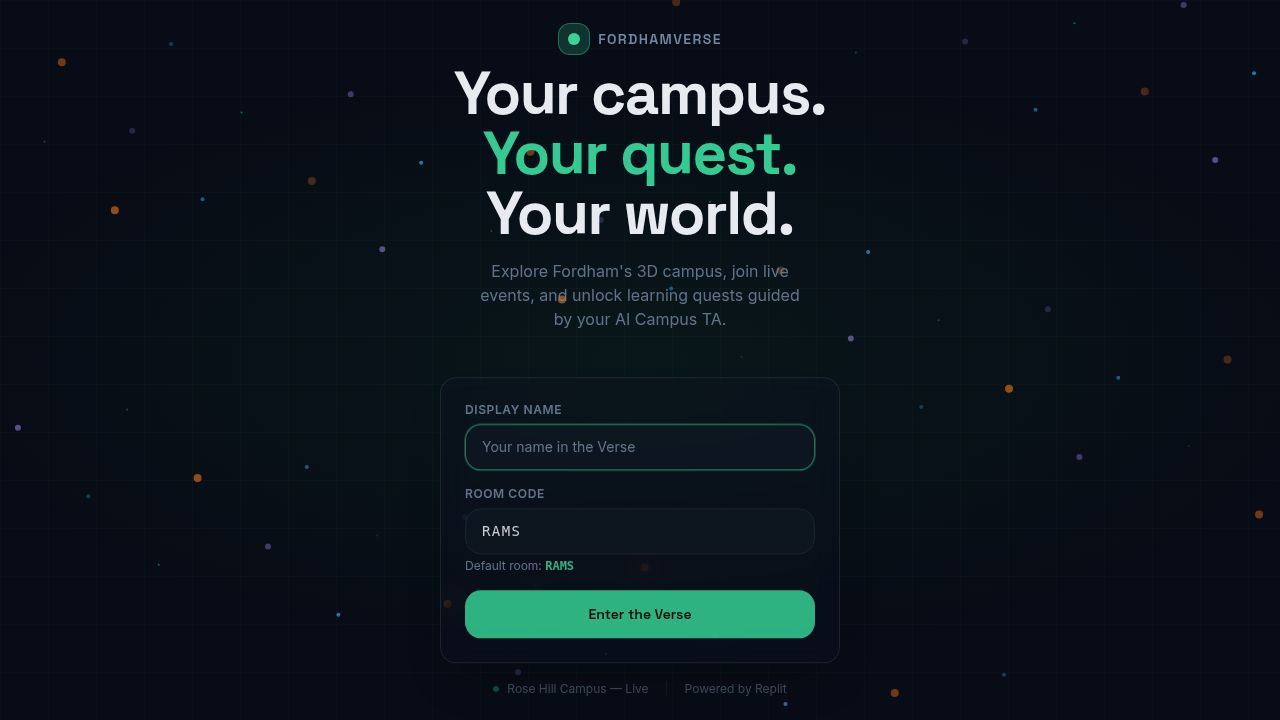
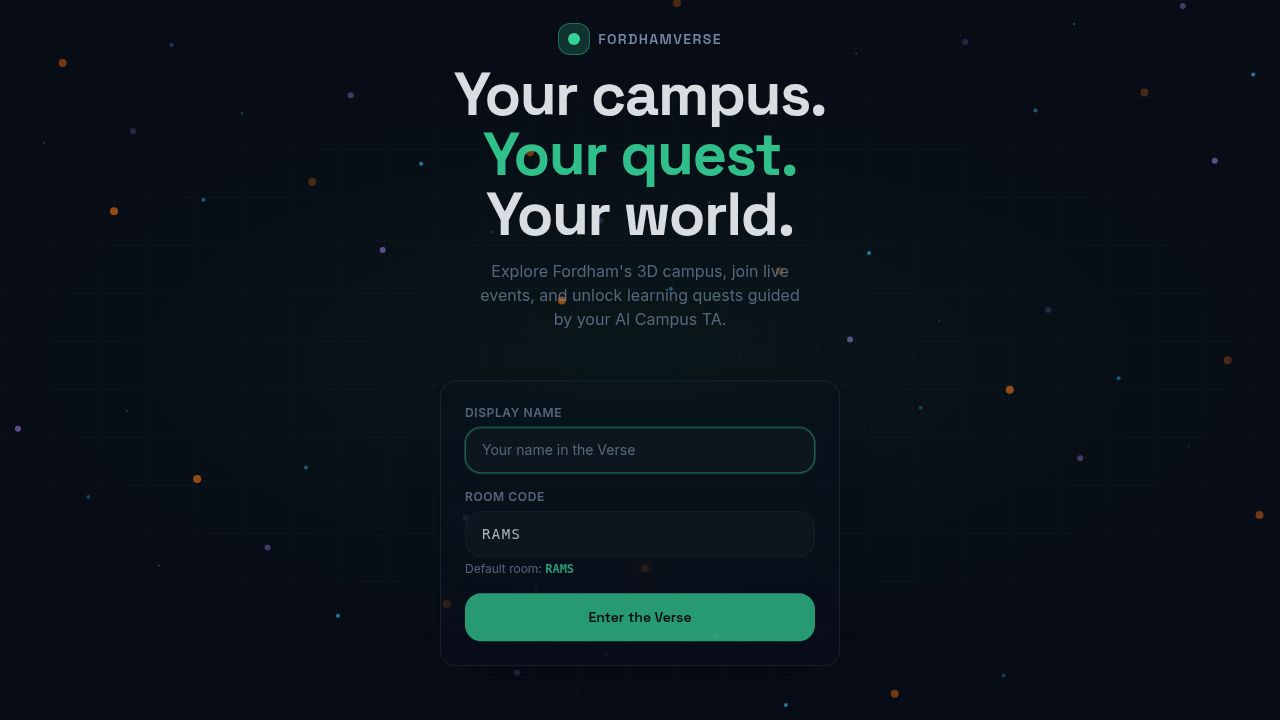
Add on-screen mobile controls and improve visual atmosphere
Integrate new mobile touch controls for gameplay and enhance the game's visual atmosphere with a sky dome and updated ground textures.

Replit-Commit-Author: Agent
Replit-Commit-Session-Id: d88b9b34-4b7b-41c7-a7cd-4240a464e5ad
Replit-Commit-Checkpoint-Type: full_checkpoint
Replit-Commit-Event-Id: c1e180e8-27f4-4b70-849d-4775d80f2aad
Replit-Commit-Screenshot-Url: https://storage.googleapis.com/screenshot-production-us-central1/dd788a88-bd38-4a46-bf5b-e3bbac66b9e9/d88b9b34-4b7b-41c7-a7cd-4240a464e5ad/cmcaWsD
Replit-Helium-Checkpoint-Created: true

diff --git a/artifacts/fordhamverse/src/components/MobileControls.tsx b/artifacts/fordhamverse/src/components/MobileControls.tsx
@@ -1,0 +1,123 @@
+import { useEffect, useState } from "react";
+import {
+  ArrowUp,
+  ArrowDown,
+  ArrowLeft,
+  ArrowRight,
+  ChevronsUp,
+  Zap,
+} from "lucide-react";
+import {
+  resetTouchControls,
+  setTouchControl,
+  type TouchControlKey,
+} from "@/lib/touchControls";
+
+/**
+ * On-screen movement controls for touch devices (e.g. a phone opened from the
+ * room QR code). Mirrors the keyboard controls by mutating the shared
+ * `touchControls` singleton on press/release.
+ */
+function useIsTouchDevice(): boolean {
+  const [isTouch, setIsTouch] = useState(false);
+  useEffect(() => {
+    if (typeof window === "undefined") return;
+    const mq = window.matchMedia("(pointer: coarse)");
+    const update = () => setIsTouch(mq.matches || "ontouchstart" in window);
+    update();
+    mq.addEventListener?.("change", update);
+    return () => mq.removeEventListener?.("change", update);
+  }, []);
+  return isTouch;
+}
+
+function HoldButton({
+  control,
+  label,
+  className,
+  children,
+}: {
+  control: TouchControlKey;
+  label: string;
+  className?: string;
+  children: React.ReactNode;
+}) {
+  const press = (e: React.PointerEvent) => {
+    e.preventDefault();
+    e.currentTarget.setPointerCapture?.(e.pointerId);
+    setTouchControl(control, true);
+  };
+  const release = (e: React.PointerEvent) => {
+    e.preventDefault();
+    setTouchControl(control, false);
+  };
+  return (
+    <button
+      type="button"
+      aria-label={label}
+      data-testid={`mobile-${control}`}
+      onPointerDown={press}
+      onPointerUp={release}
+      onPointerCancel={release}
+      onPointerLeave={release}
+      onLostPointerCapture={() => setTouchControl(control, false)}
+      onContextMenu={(e) => e.preventDefault()}
+      className={`flex items-center justify-center rounded-2xl glass-panel text-foreground/90 active:bg-primary/30 active:text-primary active:scale-95 transition select-none touch-none ${className ?? ""}`}
+      style={{ WebkitTouchCallout: "none", WebkitUserSelect: "none" }}
+    >
+      {children}
+    </button>
+  );
+}
+
+export function MobileControls() {
+  const isTouch = useIsTouchDevice();
+
+  useEffect(() => {
+    const clear = () => resetTouchControls();
+    window.addEventListener("blur", clear);
+    document.addEventListener("visibilitychange", clear);
+    return () => {
+      window.removeEventListener("blur", clear);
+      document.removeEventListener("visibilitychange", clear);
+      resetTouchControls();
+    };
+  }, []);
+
+  if (!isTouch) return null;
+
+  return (
+    <div className="absolute bottom-6 right-4 z-30 flex items-end gap-4 pointer-events-auto select-none">
+      {/* Jump + Sprint stack */}
+      <div className="flex flex-col gap-3">
+        <HoldButton control="sprint" label="Sprint" className="w-14 h-14">
+          <Zap className="w-6 h-6" />
+        </HoldButton>
+        <HoldButton control="jump" label="Jump" className="w-16 h-16">
+          <ChevronsUp className="w-7 h-7" />
+        </HoldButton>
+      </div>
+
+      {/* Directional pad */}
+      <div className="grid grid-cols-3 grid-rows-3 gap-1.5">
+        <span />
+        <HoldButton control="forward" label="Move forward" className="w-14 h-14">
+          <ArrowUp className="w-6 h-6" />
+        </HoldButton>
+        <span />
+        <HoldButton control="left" label="Move left" className="w-14 h-14">
+          <ArrowLeft className="w-6 h-6" />
+        </HoldButton>
+        <span />
+        <HoldButton control="right" label="Move right" className="w-14 h-14">
+          <ArrowRight className="w-6 h-6" />
+        </HoldButton>
+        <span />
+        <HoldButton control="back" label="Move back" className="w-14 h-14">
+          <ArrowDown className="w-6 h-6" />
+        </HoldButton>
+        <span />
+      </div>
+    </div>
+  );
+}

diff --git a/artifacts/fordhamverse/src/components/CampusScene.tsx b/artifacts/fordhamverse/src/components/CampusScene.tsx
@@ -1,10 +1,11 @@
-import { useRef, useMemo } from "react";
+import { useRef, useMemo, useEffect } from "react";
 import { Canvas, useFrame, useThree } from "@react-three/fiber";
-import { Html, KeyboardControls, useKeyboardControls } from "@react-three/drei";
+import { Html, KeyboardControls, Stars, useKeyboardControls } from "@react-three/drei";
 import * as THREE from "three";
 import type { Building, CampusEvent, LearningPortal, Player } from "@/lib/types";
 import { BUILDINGS, PORTALS, EVENTS } from "@/lib/data";
 import { gameStore } from "@/lib/store";
+import { touchControls } from "@/lib/touchControls";
 
 enum Controls {
   forward = "forward",
@@ -165,7 +166,13 @@ function ControllablePlayer({
   const [, getKeys] = useKeyboardControls<Controls>();
 
   useFrame(({ clock }, delta) => {
-    const { forward, back, left, right, jump, sprint } = getKeys();
+    const k = getKeys();
+    const forward = k.forward || touchControls.forward;
+    const back = k.back || touchControls.back;
+    const left = k.left || touchControls.left;
+    const right = k.right || touchControls.right;
+    const jump = k.jump || touchControls.jump;
+    const sprint = k.sprint || touchControls.sprint;
 
     const dir = new THREE.Vector3();
     if (forward) dir.z -= 1;
@@ -660,10 +667,15 @@ function Tree({ x, z }: { x: number; z: number }) {
 function CampusGround() {
   return (
     <>
+      {/* Far ground base — fills out to the horizon under the fog */}
+      <mesh receiveShadow rotation={[-Math.PI / 2, 0, 0]} position={[0, -0.06, 0]}>
+        <planeGeometry args={[300, 300]} />
+        <meshStandardMaterial color="#0a2417" roughness={1} />
+      </mesh>
       {/* Grass */}
       <mesh receiveShadow rotation={[-Math.PI / 2, 0, 0]} position={[0, -0.03, 0]}>
         <planeGeometry args={[48, 48]} />
-        <meshStandardMaterial color="#071a12" roughness={0.96} />
+        <meshStandardMaterial color="#12361f" roughness={0.96} />
       </mesh>
       {/* South entrance walk — spawn up to Edwards Parade */}
       <mesh receiveShadow rotation={[-Math.PI / 2, 0, 0]} position={[-0.5, 0.004, 12.5]}>
@@ -735,6 +747,41 @@ function CampusGround() {
   );
 }
 
+// ─── Sky ──────────────────────────────────────────────────────────────────────
+function SkyDome() {
+  const texture = useMemo(() => {
+    const canvas = document.createElement("canvas");
+    canvas.width = 16;
+    canvas.height = 256;
+    const ctx = canvas.getContext("2d")!;
+    const grad = ctx.createLinearGradient(0, 0, 0, 256);
+    grad.addColorStop(0, "#01030a"); // zenith
+    grad.addColorStop(0.45, "#040b1c");
+    grad.addColorStop(0.72, "#0a1f37");
+    grad.addColorStop(0.9, "#15314c");
+    grad.addColorStop(1, "#1f4663"); // horizon glow
+    ctx.fillStyle = grad;
+    ctx.fillRect(0, 0, 16, 256);
+    const tex = new THREE.CanvasTexture(canvas);
+    tex.colorSpace = THREE.SRGBColorSpace;
+    return tex;
+  }, []);
+
+  useEffect(() => () => texture.dispose(), [texture]);
+
+  return (
+    <mesh>
+      <sphereGeometry args={[160, 32, 32]} />
+      <meshBasicMaterial
+        map={texture}
+        side={THREE.BackSide}
+        fog={false}
+        depthWrite={false}
+      />
+    </mesh>
+  );
+}
+
 // ─── Scene Interior ───────────────────────────────────────────────────────────
 function SceneContent({
   myPlayer,
@@ -755,13 +802,24 @@ function SceneContent({
 }) {
   return (
     <>
+      {/* Sky & atmosphere */}
+      <color attach="background" args={["#040b1c"]} />
+      <fog attach="fog" args={["#0a1f37", 40, 130]} />
+      <SkyDome />
+      <Stars radius={150} depth={60} count={2600} factor={4} saturation={0} fade speed={0.6} />
+      {/* Moon */}
+      <mesh position={[-46, 58, -80]}>
+        <sphereGeometry args={[5, 24, 24]} />
+        <meshBasicMaterial color="#dce8ff" fog={false} />
+      </mesh>
+      <pointLight position={[-46, 58, -80]} color="#9db8e0" intensity={0.5} distance={260} />
+
       {/* Lighting */}
-      <color attach="background" args={["#050a14"]} />
-      <fog attach="fog" args={["#050a14", 22, 65]} />
-      <ambientLight intensity={0.18} color="#1a3a5c" />
+      <hemisphereLight args={["#1a3a5c", "#08160e", 0.4]} />
+      <ambientLight intensity={0.2} color="#1a3a5c" />
       <directionalLight
         position={[12, 22, 12]}
-        intensity={0.9}
+        intensity={0.95}
         color="#dce8ff"
         castShadow
         shadow-mapSize={[2048, 2048]}

diff --git a/artifacts/fordhamverse/src/lib/touchControls.ts b/artifacts/fordhamverse/src/lib/touchControls.ts
@@ -1,0 +1,38 @@
+/**
+ * Shared on-screen (touch) movement state for mobile players.
+ *
+ * The 3D controller reads keyboard input via drei's `useKeyboardControls`, which
+ * has no concept of touch. The on-screen D-pad buttons (see `MobileControls`)
+ * mutate this singleton on press/release, and `ControllablePlayer` ORs these
+ * flags together with the keyboard state each frame — so touch and keyboard
+ * drive movement through the same code path.
+ */
+export type TouchControlKey =
+  | "forward"
+  | "back"
+  | "left"
+  | "right"
+  | "jump"
+  | "sprint";
+
+export const touchControls: Record<TouchControlKey, boolean> = {
+  forward: false,
+  back: false,
+  left: false,
+  right: false,
+  jump: false,
+  sprint: false,
+};
+
+export function setTouchControl(key: TouchControlKey, value: boolean): void {
+  touchControls[key] = value;
+}
+
+export function resetTouchControls(): void {
+  touchControls.forward = false;
+  touchControls.back = false;
+  touchControls.left = false;
+  touchControls.right = false;
+  touchControls.jump = false;
+  touchControls.sprint = false;
+}

diff --git a/artifacts/fordhamverse/src/pages/Game.tsx b/artifacts/fordhamverse/src/pages/Game.tsx
@@ -3,6 +3,7 @@ import { useGameStore, gameStore } from "@/lib/store";
 import { CampusScene } from "@/components/CampusScene";
 import { TopBar } from "@/components/TopBar";
 import { GameHUD } from "@/components/GameHUD";
+import { MobileControls } from "@/components/MobileControls";
 import { QuestSidebar } from "@/components/QuestSidebar";
 import { EventSidebar } from "@/components/EventSidebar";
 import { AIAssistant } from "@/components/AIAssistant";
@@ -89,6 +90,7 @@ export default function Game() {
         mapOpen={showMap}
       />
       <GameHUD />
+      <MobileControls />
 
       {/* Real Rose Hill campus map overlay */}
       <CampusMap open={showMap} onClose={() => setShowMap(false)} />

diff --git a/.agents/memory/webgl-e2e-testing.md b/.agents/memory/webgl-e2e-testing.md
@@ -3,16 +3,20 @@ name: WebGL e2e testing limitation
 description: Why 3D (React Three Fiber / WebGL) scenes can't be visually verified with the runTest testing subagent.
 ---
 
-The `runTest` Playwright testing subagent runs in a headless browser with no GPU. Any
-page that needs a WebGL context (React Three Fiber `<Canvas>`, Three.js, raw WebGL)
-fails with `Error creating WebGL context` / `VENDOR/DEVICE disabled` /
-`BindToCurrentSequence failed`, which shows up as a Vite runtime-error overlay covering
-the canvas.
+This whole agent environment has NO GPU. Any page that needs a WebGL context (React
+Three Fiber `<Canvas>`, Three.js, raw WebGL) fails with `Error creating WebGL context` /
+`Could not create a WebGL context, VENDOR=0xffff DEVICE=0xffff` / `BindToCurrentSequence
+failed`, shown as a Vite runtime-error overlay covering the canvas. This affects BOTH the
+`runTest` Playwright subagent AND the `screenshot`/`app_preview` tool — neither can render
+3D here. (Non-WebGL pages like the landing screen DO screenshot fine.)
 
-**Why:** This is an environment limitation of the test harness, NOT an app bug. The
-real Replit preview iframe (and real user browsers) have WebGL and render fine.
+**Why:** Environment limitation, NOT an app bug. The real Replit preview iframe in the
+user's own browser (and real phones via QR) have WebGL and render fine.
 
-**How to apply:** For 3D artifacts, verify with `pnpm --filter <pkg> run typecheck` and
-by checking browser console logs for real errors in the actual preview. `runTest` can
-still validate non-WebGL UI (HTML overlays, buttons, modals, top bars) on the same page —
-just expect the canvas itself to error out under test.
+**How to apply:** For 3D artifacts, verify with `pnpm --filter <pkg> run typecheck` +
+browser console logs + architect review of the scene code. Do NOT expect a rendered
+screenshot of the 3D scene. Both `runTest` and the screenshot tool CAN still validate
+non-WebGL DOM (HUD overlays, buttons, modals) drawn on top of the canvas — the error
+overlay is centered and leaves the screen corners visible, so bottom-corner HUD/controls
+are still inspectable. To reach a state-gated in-game overlay (no URL route), add a
+temporary dev-only auto-enter via a `?query` param, screenshot, then revert.

diff --git a/replit.md b/replit.md
@@ -29,7 +29,9 @@ A 3D campus game for Fordham Rose Hill where players explore, join live events, 
 - `artifacts/fordhamverse/` — the game (React + Vite + react-three-fiber)
   - `src/lib/store.ts` — multiplayer store: SpacetimeDB connection, room join, remote-player sync, single-player fallback
   - `src/module_bindings/` — generated SpacetimeDB client bindings (import the `spacetimedb` package)
-  - `src/components/CampusScene.tsx` — renders local + remote players; throttled movement sync
+  - `src/components/CampusScene.tsx` — renders local + remote players; throttled movement sync; gradient `SkyDome` + drei `<Stars>` + moon, and the campus ground (incl. far base plane for the horizon)
+  - `src/components/MobileControls.tsx` — touch-only on-screen D-pad + jump/sprint (renders only on coarse-pointer / touch devices, e.g. a phone from the QR code)
+  - `src/lib/touchControls.ts` — shared input singleton the touch buttons mutate; `ControllablePlayer` ORs it with keyboard input each frame
   - `scripts/mp-test.mts` — headless 2-client multiplayer transport test
 - `spacetimedb/` — the SpacetimeDB module (NOT a pnpm workspace package; own npm deps)
   - `src/index.ts` — `player` table + `enterGame` / `updateTransform` / `leaveGame` reducers + disconnect cleanup